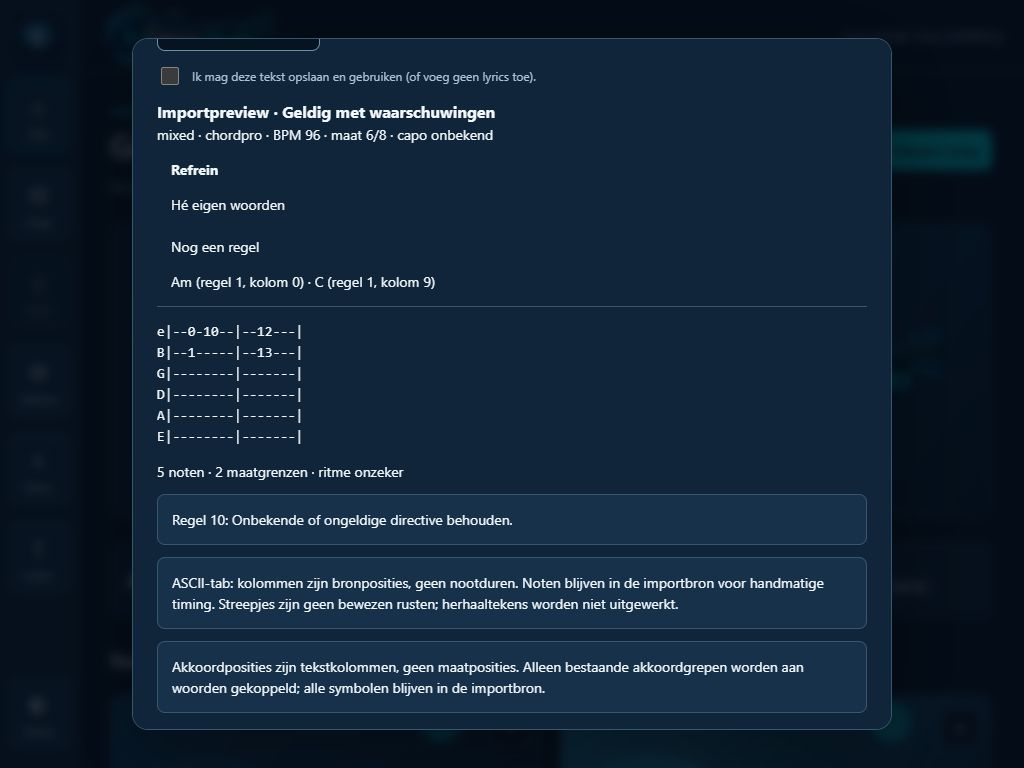
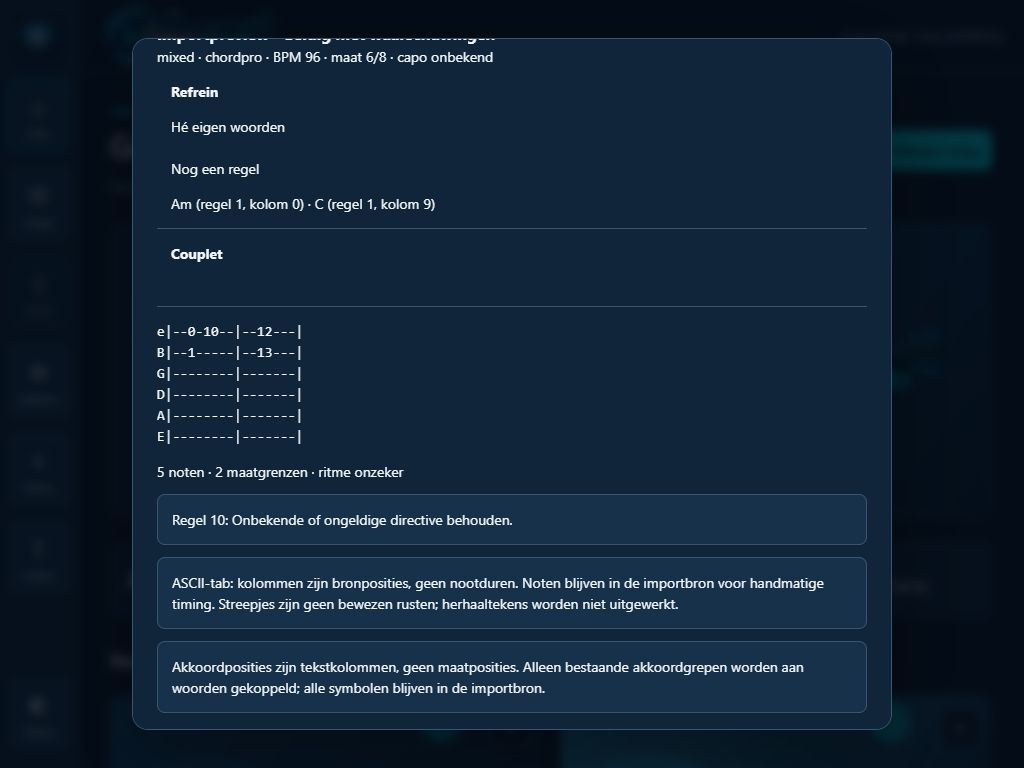
fix: preserve source sections containing only imported tablature

Changed region(s): [[0.1562, 0.0312, 0.5312, 0.1875], [0.1562, 0.3125, 0.4375, 0.375], [0.1562, 0.2188, 0.4375, 0.2812]]

diff --git a/packages/music-domain/src/song-import.test.ts b/packages/music-domain/src/song-import.test.ts
@@ -62,6 +62,12 @@ describe('loss-aware user import', () => {
     expect(d.sections[0]!.name).toBe('Refrein');
     expect(d.unrecognized).toHaveLength(2);
     expect(d.rawText).toContain('{unknown: retain}');
+    const withTab = parseSongImport({
+      title: 'Mixed',
+      text: '{soc}\n[Am]Own words\n{eoc}\n' + ownTab,
+    });
+    expect(withTab.sections[withTab.tabBlocks[0]!.sectionIndex]).toBeDefined();
+    expect(withTab.sections).toHaveLength(2);
   });
   it('parses simultaneous open/double-digit frets, multiple blocks and bar columns without timing', () => {
     const d = parseSongImport({

diff --git a/packages/music-domain/src/song-import.ts b/packages/music-domain/src/song-import.ts
@@ -274,7 +274,10 @@ export function parseSongImport(value: unknown): ImportDocument {
   while (
     doc.sections.length > 1 &&
     !doc.sections.at(-1)!.lines.length &&
-    !doc.sections.at(-1)!.chords.length
+    !doc.sections.at(-1)!.chords.length &&
+    !doc.tabBlocks.some(
+      (block) => block.sectionIndex === doc.sections.length - 1,
+    )
   )
     doc.sections.pop();
   const chordCount = doc.sections.reduce((n, s) => n + s.chords.length, 0);

diff --git a/docs/sprints/sprint-2d-report.md b/docs/sprints/sprint-2d-report.md
@@ -14,7 +14,7 @@ Existing rational timing, grip presets, Song aggregate/history, API conventions,
 
 73 unit tests (42 baseline + 15 parser/sync + 16 provider/API), 17 real PostgreSQL integration tests (12 baseline + 5 import). Full suite: 27/27 passed locally in Google Chrome 157.0.8103.51 on Windows 11 and 27/27 in CI Chromium. The seven new scenarios cover end-to-end import/discovery plus four viewport/theme cases. 64 new axe scans (32 Chrome + 32 CI Chromium) have zero violations and 32 Chrome screenshots are committed, with matching raw CI evidence. Actual PostgreSQL restart plus a fresh Chrome process retained the import, and migration 005 preserved the original local song/revision digest. Existing 20 browser scenarios are retained; the file-import test now observes transactional `/imports` instead of direct Song POST, and authoring waits for explicit dialog completion before reading the created record. Reproducible CI uses original test-owned lyrics and HTTP mocks, not external uptime or fabricated production results. Limited live LRCLIB v2/detail smoke is separate and logged as metadata/counts only in [provider notes](../architecture/lrclib-provider.md).
 
-Lint, formatter, typecheck, 32 existing token contrasts/five asset hashes, build and dependency audit passed (zero vulnerabilities). The implementation CI [43629381936](https://github.com/gerben53-netizen/guitar_studio/actions/runs/43629381936) passed quality/secrets with all 27 browser scenarios. Final evidence-only commit CI is linked in the PR completion record. Exact PR-head CI must be green before merge; final develop CI and issue/milestone closure are verified after merge and recorded in the PR completion comment. No pending integration gate is counted as passed prematurely.
+Lint, formatter, typecheck, 32 existing token contrasts/five asset hashes, build and dependency audit passed (zero vulnerabilities). The implementation CI [43629381936](https://github.com/gerben53-netizen/guitar_studio/actions/runs/43629381936) passed quality/secrets with all 27 browser scenarios. Final exact-head CI is linked in the PR completion record. After the full run, a parser audit also preserved trailing tab-only sections so every tab block keeps its source-section reference; the existing parser test now asserts this and all seven Chrome import scenarios passed again after the correction. Exact PR-head CI must be green before merge; final develop CI and issue/milestone closure are verified after merge and recorded in the PR completion comment. No pending integration gate is counted as passed prematurely.
 
 ## Limitations / Work transfer
 

diff --git a/docs/qa/sprint-2d-acceptance.md b/docs/qa/sprint-2d-acceptance.md
@@ -47,4 +47,4 @@ Browser suite adds seven cases: complete persistent flow/lost response/replay/de
 - [Actual restart proof](evidence/sprint-2d/restart.json): persistent original source, normalized untimed fret 10, unchanged song/revision after PostgreSQL restart, then new Chrome process/empty context; own fixture removed.
 - [Migration preservation](evidence/sprint-2d/migration-preservation.json): original local Song document/revision digest identical before/after migration 005. Existing data not replaced by test fixtures.
 
-Final exact-head/develop CI, issue closure and merge are repository-state gates recorded in the PR completion comment after they actually occur. Implementation head 8621d42 is fully green; the final commit adds evidence/docs/workflow artifact naming without changing application code.
+Final exact-head/develop CI, issue closure and merge are repository-state gates recorded in the PR completion comment after they actually occur. Implementation head 8621d42 and evidence head 11acd2c establish the full-suite baseline. Final parser audit preserves trailing tab-only sections and adds a section-reference regression assertion; final exact-head CI covers this correction, and all seven Chrome import scenarios passed again after this correction.
